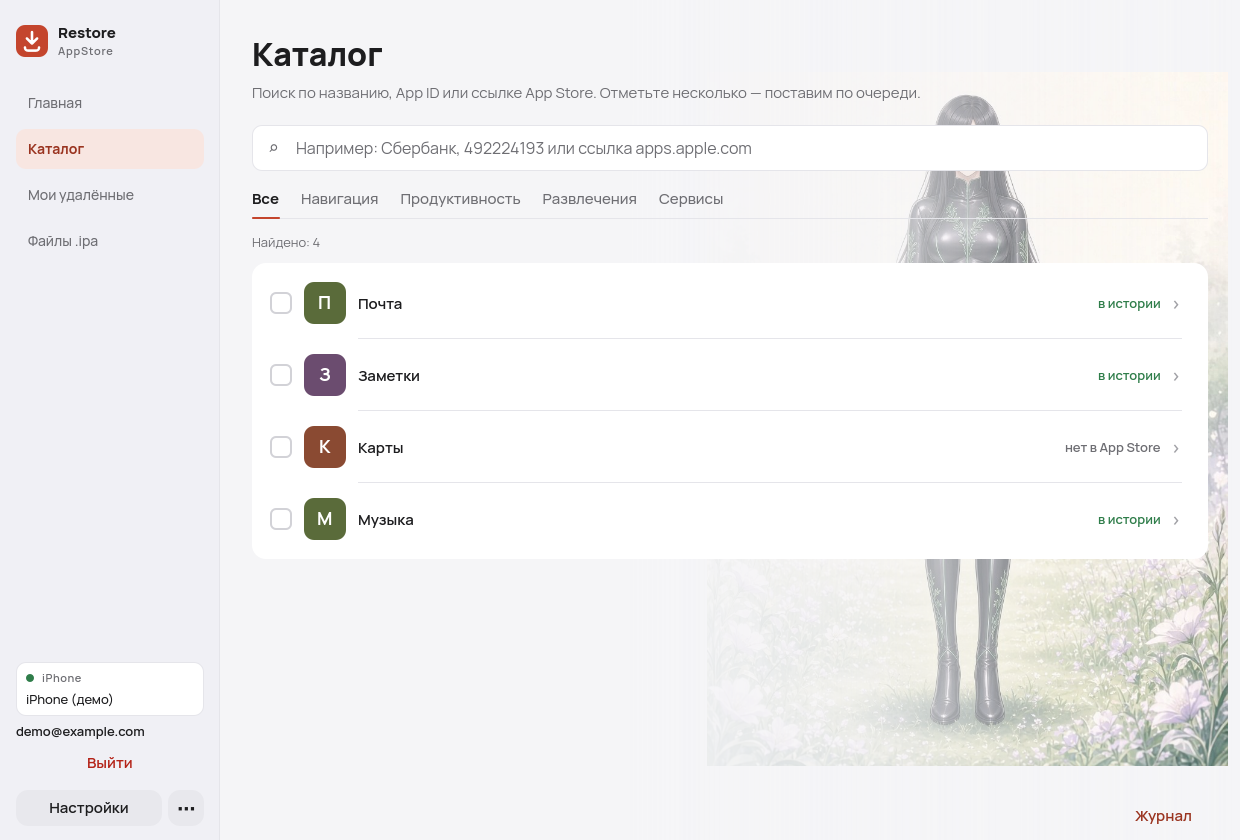
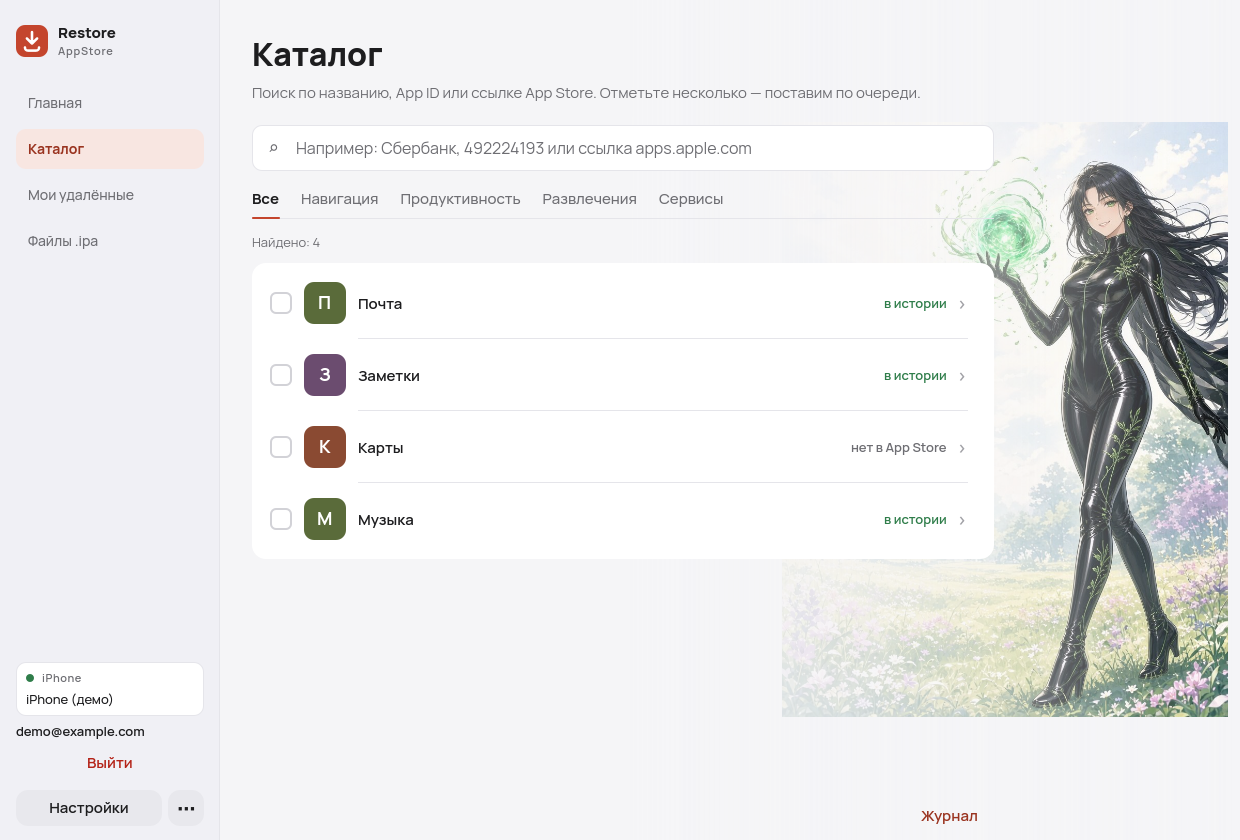
Выпустить 2.0.1: тёмный латекс на светлом фоне, светлый на тёмном, живые позы с магией

diff --git a/restore_gui/qml/Main.qml b/restore_gui/qml/Main.qml
@@ -28,7 +28,7 @@ ApplicationWindow {
         anchors.bottomMargin: 20
         anchors.rightMargin: 12
         // ширина по высоте кадра 3:4, фигура целиком, без обрезки
-        width: Math.min(parent.width * 0.42, (height) * 0.75)
+        width: Math.min(parent.width * 0.36, (height) * 0.68)
         fillMode: Image.PreserveAspectFit
         horizontalAlignment: Image.AlignRight
         verticalAlignment: Image.AlignVCenter
@@ -61,6 +61,8 @@ ApplicationWindow {
         ColumnLayout {
             Layout.fillWidth: true
             Layout.fillHeight: true
+            // карточки не заходят на лицо и торс героини справа
+            Layout.rightMargin: heroine.visible ? Math.max(24, Math.round(heroine.width * 0.48)) : 0
             spacing: 0
             enabled: !detail.visible && !dialogs.anyOpen
 

diff --git a/restore_gui/qml/SettingsWindow.qml b/restore_gui/qml/SettingsWindow.qml
@@ -124,7 +124,7 @@ Popup {
                         }
                         Label2 { text: "Героиня на фоне"; Layout.topMargin: 10 }
                         Text {
-                            text: "Справа в полный рост. В светлой теме — светлая сказка, в тёмной — dark fantasy. Можно выключить."
+                            text: "Справа в полный рост, с магией. На светлом фоне — тёмный латекс, на тёмном — светлый. Можно выключить."
                             color: backend.pal.muted; font.family: backend.pal.font; font.pixelSize: 13
                             wrapMode: Text.WordWrap; Layout.fillWidth: true
                         }

diff --git a/tests/test_ui.py b/tests/test_ui.py
@@ -31,10 +31,11 @@ class UiTests(unittest.TestCase):
         self.assertTrue(backend.loggedIn)
         self.assertEqual(backend.account, "demo@example.com")
         self.assertGreaterEqual(len(backend.popular._rows), 1)
+        backend.heroineName = "mira"
         backend.themeMode = "dark"
-        self.assertTrue(backend.heroineUrl.endswith("mira-dark.jpg") or "mira-dark.jpg" in backend.heroineUrl)
+        self.assertIn("mira-dark.jpg", backend.heroineUrl)
         backend.themeMode = "light"
-        self.assertTrue("mira-light.jpg" in backend.heroineUrl)
+        self.assertIn("mira-light.jpg", backend.heroineUrl)
         backend.heroineName = "off"
         self.assertEqual(backend.heroineUrl, "")
         self.assertTrue(any(h["key"] == "kira" for h in backend.heroines))

diff --git a/restore_apps.py b/restore_apps.py
@@ -4,7 +4,7 @@
 (%LOCALAPPDATA%\\Restore), чтобы сохранились настройки оформления.
 """
 
-__version__ = "2.0.0"
+__version__ = "2.0.1"
 APP_NAME = "Restore"
 DISPLAY_NAME = "RestoreAppStore"
 REPO = "freeon1989/RestoreAppStore"

diff --git a/README.md b/README.md
@@ -36,7 +36,7 @@ RestoreAppStore — самостоятельная программа для 64-
 · [SHA-256 exe](https://github.com/freeon1989/RestoreAppStore/releases/latest/download/RestoreAppStore-win-x64.exe.sha256)
 · [SHA-256 zip](https://github.com/freeon1989/RestoreAppStore/releases/latest/download/RestoreAppStore-win-x64.zip.sha256)
 
-Актуальная версия: **2.0.0**. Нужна **64-битная Windows 10 или 11**.
+Актуальная версия: **2.0.1**. Нужна **64-битная Windows 10 или 11**.
 
 Запустите скачанный `RestoreAppStore-win-x64.exe` либо распакуйте `RestoreAppStore-win-x64.zip` и откройте `RestoreAppStore\RestoreAppStore.exe`. Сборка не подписана цифровым сертификатом, поэтому Windows SmartScreen может показать предупреждение «Windows защитила ваш компьютер». Нажмите «Подробнее» → «Выполнить в любом случае».
 
@@ -44,10 +44,10 @@ RestoreAppStore — самостоятельная программа для 64-
 
 Если уже стоит предыдущая версия, в программе откройте «Настройки → О программе → Проверить обновления».
 
-SHA-256 файла `RestoreAppStore-win-x64.exe` (версия 2.0.0):
+SHA-256 файла `RestoreAppStore-win-x64.exe` (версия 2.0.1):
 
 ```
[2 lines of base64/hex data omitted]
 ```
 
 В PowerShell проверка такая:
@@ -56,10 +56,10 @@ SHA-256 файла `RestoreAppStore-win-x64.exe` (версия 2.0.0):
 Get-FileHash .\RestoreAppStore-win-x64.exe -Algorithm SHA256
 ```
 
-SHA-256 архива `RestoreAppStore-win-x64.zip` (версия 2.0.0):
+SHA-256 архива `RestoreAppStore-win-x64.zip` (версия 2.0.1):
 
 ```
[2 lines of base64/hex data omitted]
 ```
 
 
@@ -109,7 +109,7 @@ baa4f508cbd48c64ebf14a2ded1a4df2f237e7b29948c46010f8f602ea7bde48
 - Выбор версии, которую отдаёт ipatool-cpp. Старые сборки Apple может больше не подписывать.
 - «Только скачать IPA» или «Скачать и установить» по кабелю, в том числе несколько приложений по очереди. Готовый `.ipa` можно поставить и без повторного входа в Apple ID.
 - Светлая и тёмная тема (или как в системе) и четыре цвета акцента: терракота, чернила, яшма, охра.
-- Героиня на фоне в полный рост, в аниме-стиле (Мира, Нора, Лиора, Вера, Кира): в светлой теме — светлая сказка, в тёмной — dark fantasy. В настройках можно сменить или выключить.
+- Героиня на фоне в полный рост, в аниме-стиле, с живой позой и магией (Мира, Нора, Лиора, Вера, Кира): в светлой теме — светлая сказка и тёмный латекс, в тёмной — dark fantasy и светлый латекс. В настройках можно сменить или выключить.
 - Обновление из GitHub Releases с проверкой SHA-256 и откатом на предыдущую копию: «Настройки → О программе».
 - Понятные сообщения об ошибках по-русски и журнал внизу окна.
 

diff --git a/docs/design.md b/docs/design.md
@@ -90,8 +90,8 @@
 
 Справа в полный рост (голова и обувь видны, без обрезки) стоит одна из пяти
 героинь — Мира, Нора, Лиора, Вера, Кира — в аниме-стиле, взрослые персонажи
-в полностью закрытых глянцевых латексных комбинезонах, спокойная поза анфас.
-В светлой теме костюм и фон — светлая сказка; в тёмной — dark fantasy
+в полностью закрытых глянцевых латексных комбинезонах, живые позы с магией в руках.
+В светлой теме — тёмный латекс на фоне светлой сказки; в тёмной — светлый латекс на фоне dark fantasy
 (руны, неон, узоры). Штаба и командного центра нет. Слева текст закрыт
 заливкой `bg`, к правому краю она растворяется (`bgFade` / `bgClear`).
 В «Настройки → Оформление» героиню можно сменить или выключить. По умолчанию
